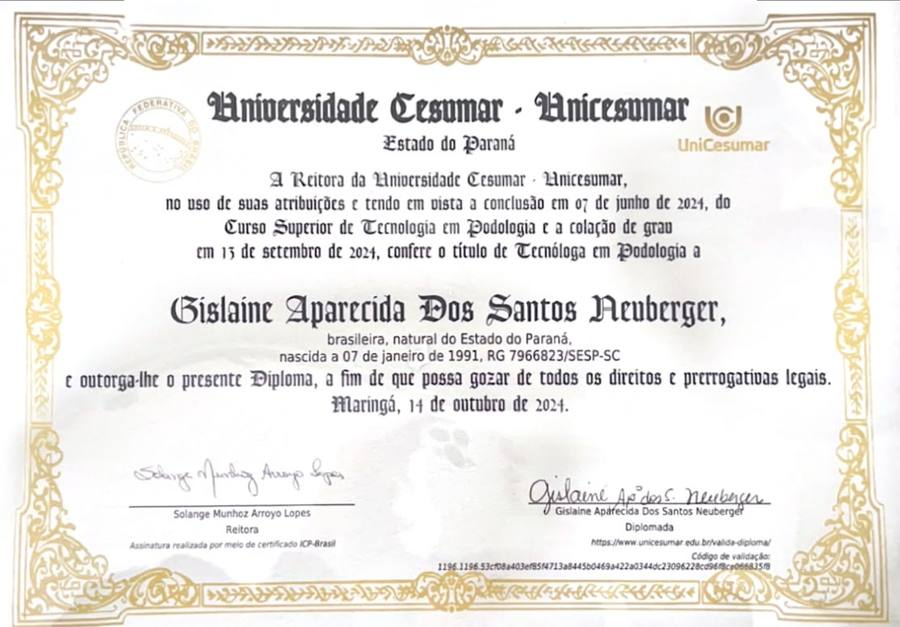
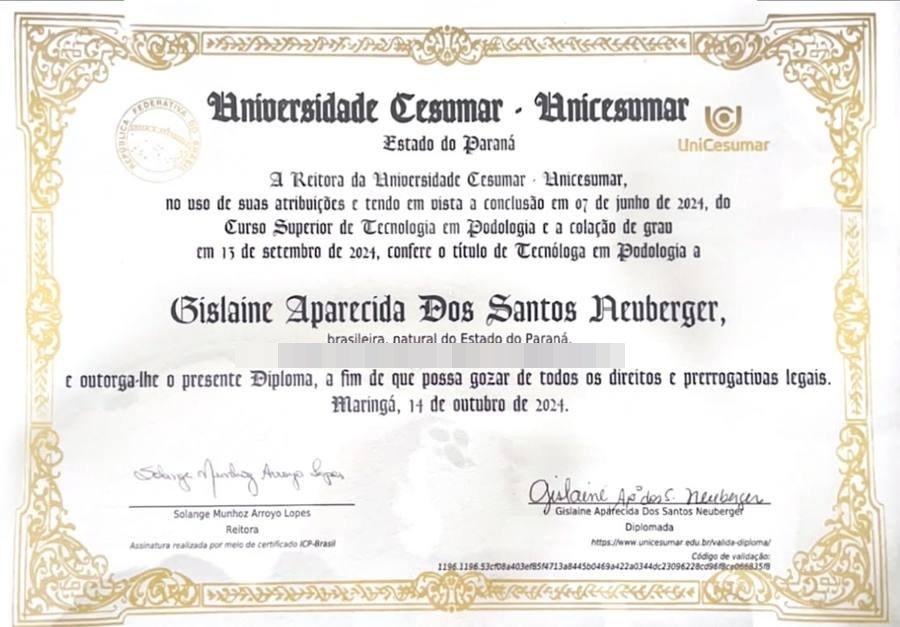
Remove alvara desatualizado (Itapema) e borra RG/data de nascimento no diploma
O alvara sanitario publicado era da Prefeitura de Itapema, vinculado ao
endereco antigo. A clinica atende em Porto Belo e a regularizacao do novo
alvara ainda nao foi feita (cliente confirmou por audio, aguardando
levantar custo das taxas). Manter o documento antigo no ar sugeria
regularizacao no endereco atual que nao existe ainda, entao a secao foi
reduzida para mostrar so o diploma ate haver um alvara valido pra
republicar.

Tambem borrado RG e data de nascimento visiveis no diploma (dado pessoal
desnecessario exposto publicamente). alvara-sanitario.jpeg com CPF borrado
fica no repo mas orfao, sem referencia no HTML.

Changed region(s): [[0.3111, 0.5455, 0.6844, 0.6061]]

diff --git a/index.html b/index.html
@@ -509,9 +509,9 @@ height="0" width="0" style="display:none;visibility:hidden"></iframe></noscript>
     <section>
       <div class="section-head">
         <p class="eyebrow">Documentação</p>
-        <h2>Credenciais e legalidade</h2>
+        <h2>Credencial</h2>
       </div>
-      <div class="photo-grid-2">
+      <div style="max-width: 420px; margin: 0 auto;">
         <div style="background: var(--paper-raised); border: 1px solid var(--border); border-radius: 12px; overflow: hidden;">
           <div class="frame" style="aspect-ratio: 4/3; border-radius: 0; padding: 0; overflow: hidden;">
             <img loading="lazy" width="900" height="627" src="diploma-tecnologa.jpeg" alt="Diploma de Tecnóloga em Podologia" class="real-photo" style="object-fit: contain; background: #fff;">
@@ -519,15 +519,6 @@ height="0" width="0" style="display:none;visibility:hidden"></iframe></noscript>
           <div style="padding: 1rem 1.25rem;">
             <p class="frame-label-inline">Diploma / certificado</p>
             <p class="frame-label-sub">Tecnóloga em Podologia, Unicesumar</p>
-          </div>
-        </div>
-        <div style="background: var(--paper-raised); border: 1px solid var(--border); border-radius: 12px; overflow: hidden;">
-          <div class="frame" style="aspect-ratio: 4/3; border-radius: 0; padding: 0; overflow: hidden;">
-            <img loading="lazy" width="900" height="1349" src="alvara-sanitario.jpeg" alt="Alvará sanitário da clínica" class="real-photo" style="object-fit: contain; background: #fff;">
-          </div>
-          <div style="padding: 1rem 1.25rem;">
-            <p class="frame-label-inline">Alvará sanitário</p>
-            <p class="frame-label-sub">Comprova que a clínica está regularizada</p>
           </div>
         </div>
       </div>
